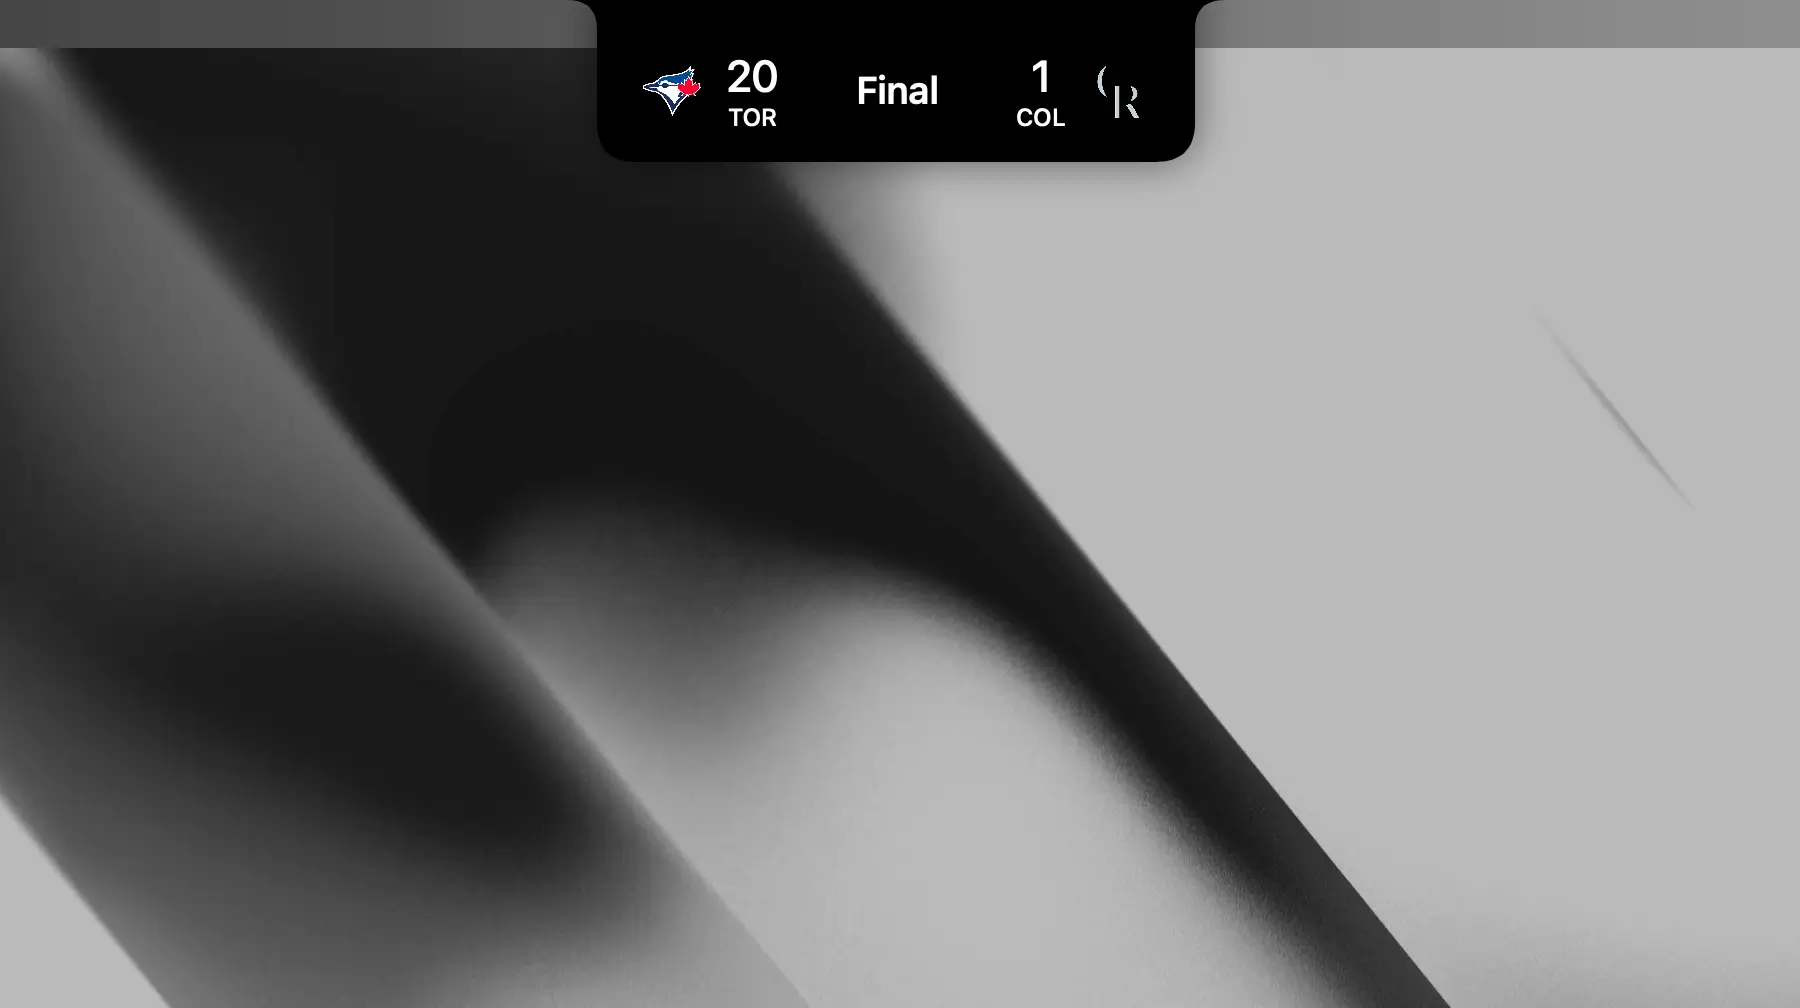
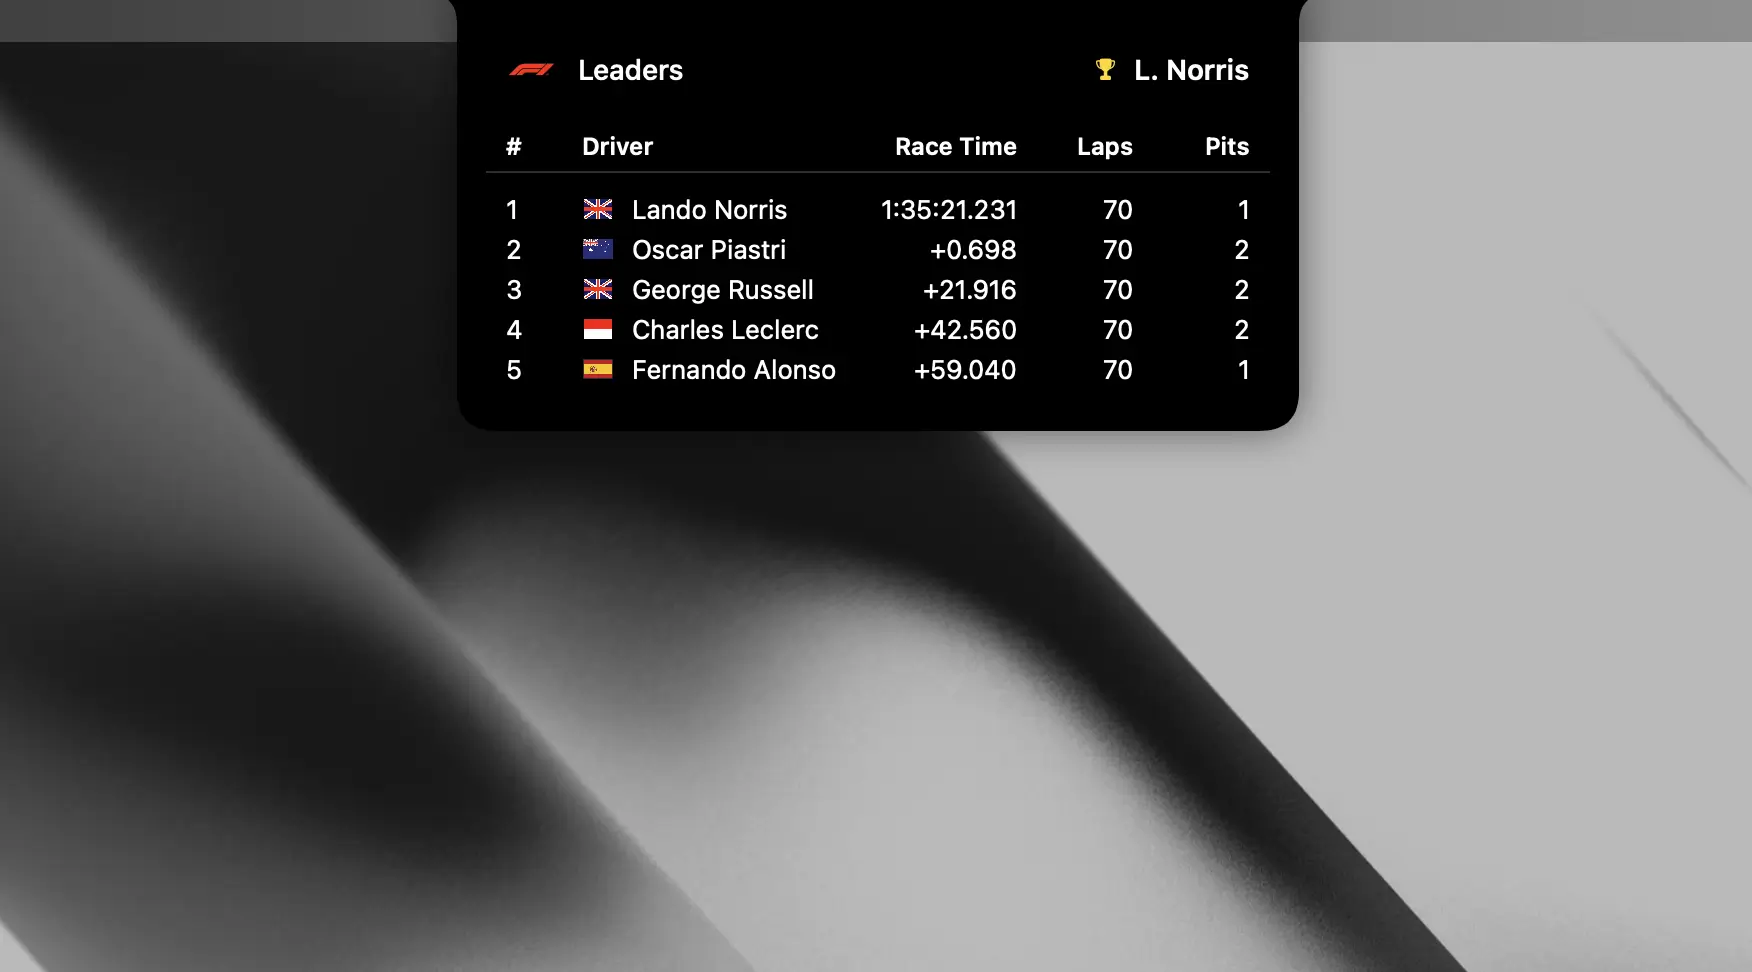
Created new blog post

diff --git a/app/data.ts b/app/data.ts
@@ -39,43 +39,49 @@ export const PROJECTS: Project[] = [
 
 export const BLOG_POSTS: BlogPost[] = [
   {
+    title: "Sports Scores in your Mac's Notch",
+    description: 'Bringing a popular iOS Dynamic Island feature to macOS',
+    link: '/blog/sports-scores-in-your-macs-notch',
+    uid: 'blog-1',
+  },
+  {
     title: 'Creating beautiful toast messages for your Mac App',
     description: 'Create subtle and beautiful notifications for your Mac app.',
     link: '/blog/creating-beautiful-toast-messages',
-    uid: 'blog-1',
+    uid: 'blog-2',
   },
   {
     title: 'Automatic Swift Code Formatting in Xcode',
     description:
       'A quick guide to setting up automatic swift code formatting in Xcode.',
     link: '/blog/automatic-code-formatting-xcode',
-    uid: 'blog-2',
+    uid: 'blog-3',
   },
   {
     title: 'Keeping Apple Notes on Top',
     description:
       'An easy method to float an apple notes window on top of others.',
     link: '/blog/keeping-apple-notes-on-top',
-    uid: 'blog-3',
+    uid: 'blog-4',
   },
   {
     title: 'Running AI Locally with Raycast & Ollama',
     description:
       'How I set up Raycast to use local LLMs through Ollama for fast, private AI on my Mac.',
     link: '/blog/running-ai-locally-with-raycast-and-ollama',
-    uid: 'blog-4',
+    uid: 'blog-5',
   },
   {
     title: 'Building MenuScores',
     description: 'How I built MenuScores: from idea to product.',
     link: '/blog/building-menuscores',
-    uid: 'blog-5',
+    uid: 'blog-6',
   },
   {
     title: 'Sportssync Developer Blog #2',
     description: 'Major Features and New Commands',
     link: '/blog/sportssync-developer-blog-2',
-    uid: 'blog-6',
+    uid: 'blog-7',
   },
   {
     title: 'Sportssync Developer Blog #1',
@@ -87,7 +93,7 @@ export const BLOG_POSTS: BlogPost[] = [
     title: 'Building Sportssync',
     description: 'Building an all in one sports extension for Raycast.',
     link: '/blog/building-sportssync',
-    uid: 'blog-8',
+    uid: 'blog-9',
   },
 ]
 
